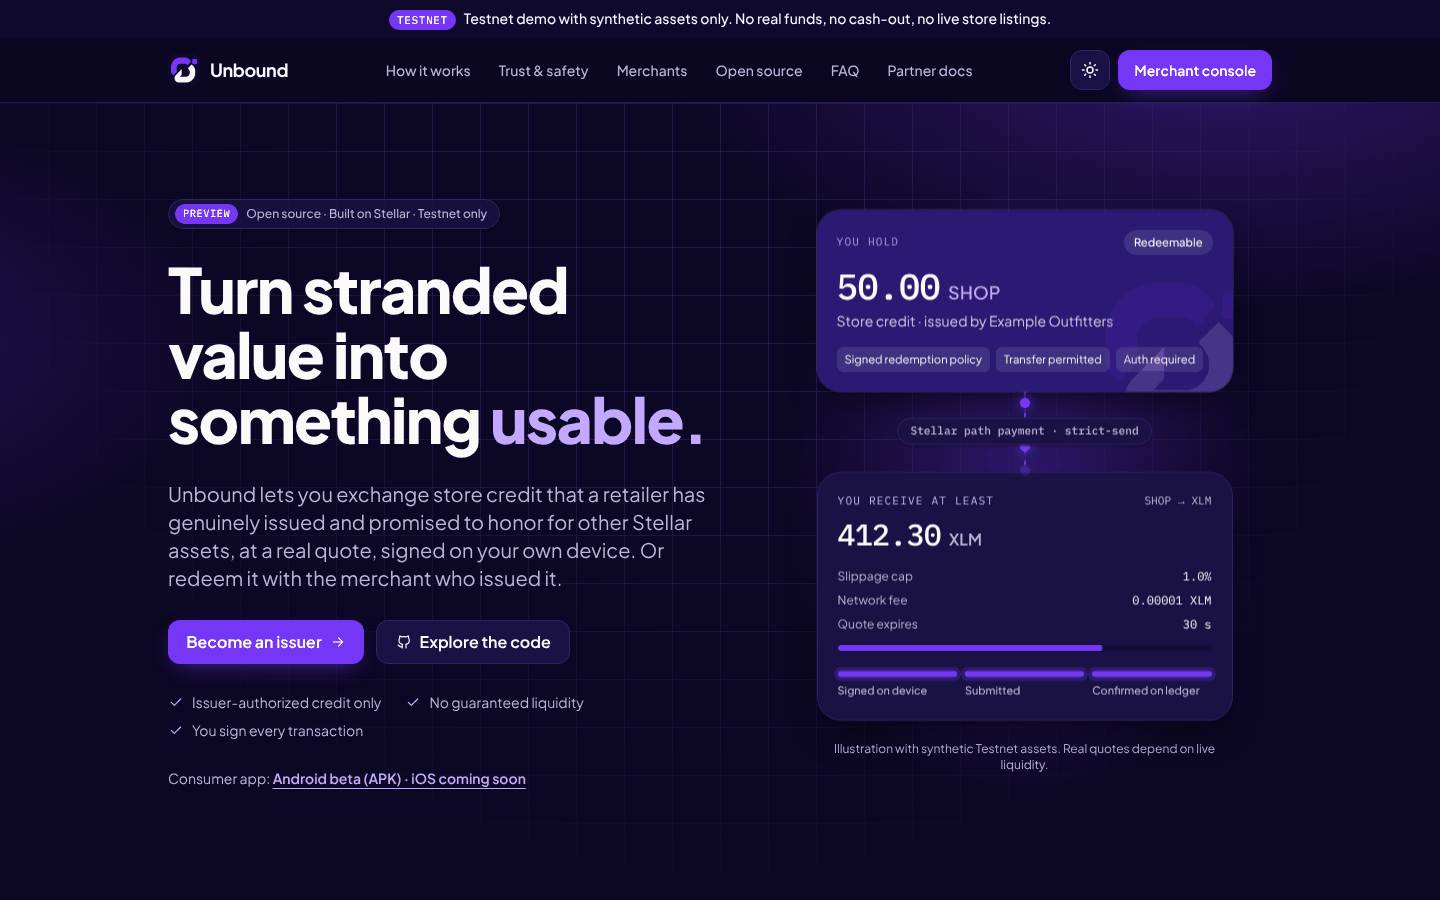
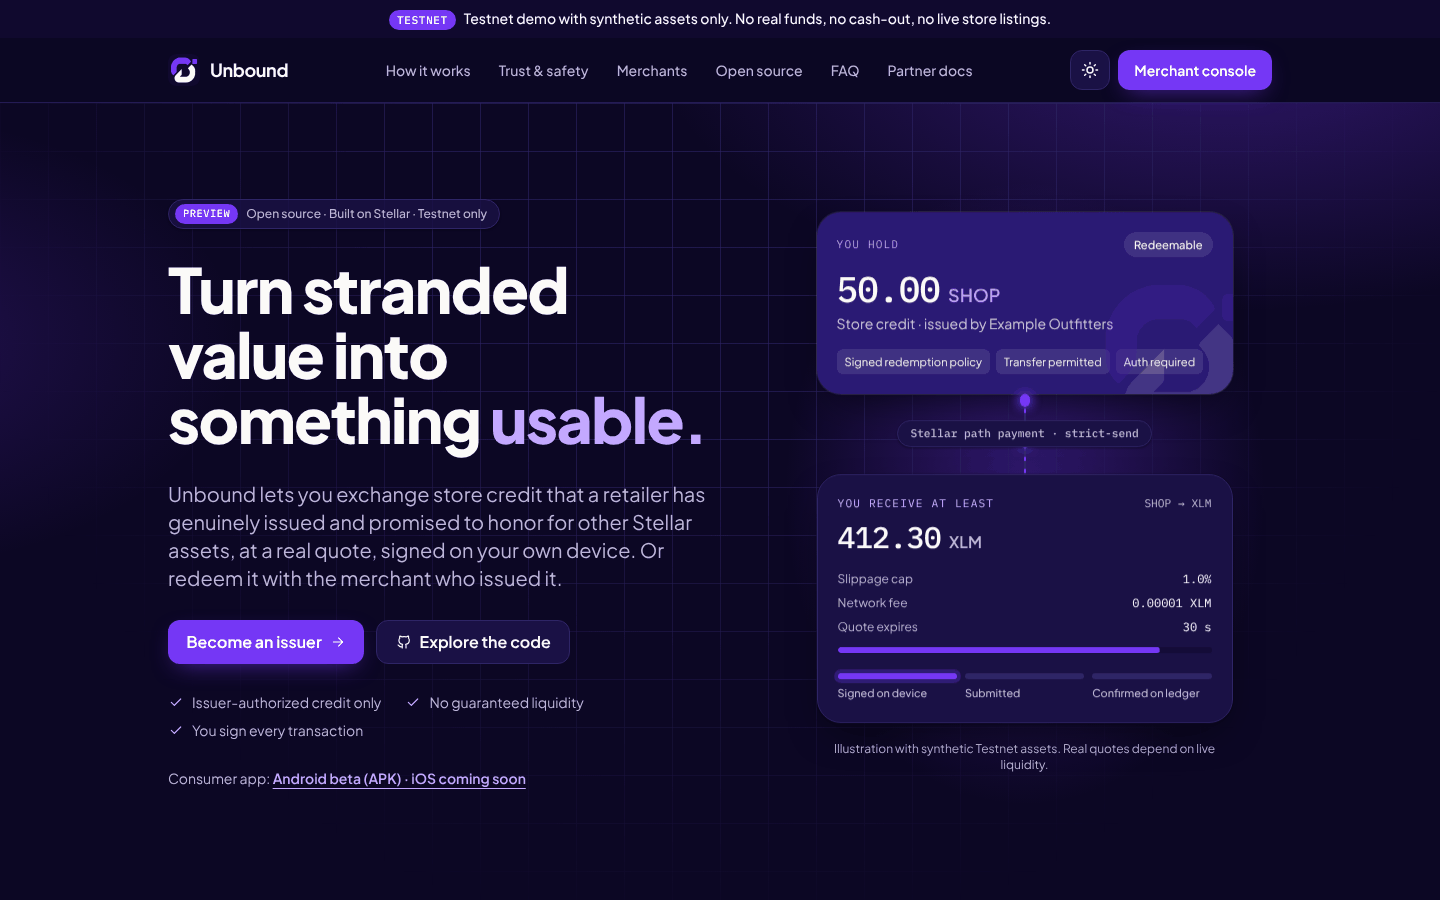
docs(site): new production screenshots and README for the consoles and landing
Retaken with Playwright on the production build (light/dark, 1440/390/360 px):
landing, the animated flow at step 5, quote explainer, audiences, under the hood,
the Android download at 360 px, and the merchant and reviewer consoles with
synthetic API data. Images are palette-optimised. README describes the three parts
and the refreshed status table; the flow lead copy no longer says four steps.

Claude-Session: https://claude.ai/code/session_01Dvzq6n93fi21PQ3YhwXWFa

diff --git a/src/components/landing/HowItWorks.tsx b/src/components/landing/HowItWorks.tsx
@@ -40,7 +40,7 @@ export function HowItWorks() {
           id="how-title"
           eyebrow="How it works"
           title="From a merchant's promise to value you can move"
-          lead="Four steps, each enforced in code and on the ledger. The issuer stays responsible for redemption the whole way through."
+          lead="Every step is enforced in code and on the ledger, and the issuer stays responsible for redemption the whole way through. Use the numbers to walk through it."
         />
         <FlowStory />
         <div className="relative mt-8">

diff --git a/README.md b/README.md
@@ -4,7 +4,7 @@
 
 # Unbound-site
 
-**The public face of Unbound: the landing page, partner docs and the merchant console where issuers confirm redemptions.**
+**The public face of Unbound: the landing page, partner docs, the merchant console where issuers answer redemptions, and the reviewer console.**
 
 [![CI](https://github.com/Unbound224/Unbound-site/actions/workflows/ci.yml/badge.svg?branch=main)](https://github.com/Unbound224/Unbound-site/actions/workflows/ci.yml)
 [![License: MIT](https://img.shields.io/badge/license-MIT-7537F5.svg)](./LICENSE)
@@ -35,24 +35,36 @@ own device, or redeem it with the issuer.
 
 ## This repository
 
-A Next.js app with two halves:
+A Next.js app with three parts:
 
-- **Landing** - value proposition, how it works (issuer -> credit -> exchange -> redemption), trust and safety,
-  consumer app, merchants, the four repositories with an honest status table, FAQ. Light and dark themes, responsive
-  down to 360 px, entrance animations that switch off under `prefers-reduced-motion`.
-- **Merchant console** - sign in against `Unbound-core`, see verified credit programs and the redemption queue, and
-  confirm fulfilment only once the returned credit is confirmed on the ledger. The session token lives in memory only.
+- **Landing** - value proposition; an animated, step-by-step diagram of issuer -> credit -> exchange -> redemption
+  escrow (with confirm / reject / timeout); an interactive quote explainer (slippage cap and minimum received, exact
+  base-unit maths, illustrative rate); who it is for (shoppers, merchants, developers); an animated "under the hood"
+  data path; trust and safety; the Android download (straight to the latest APK) with install help; FAQ. Light and
+  dark themes, responsive down to 360 px, animations off under `prefers-reduced-motion`.
+- **Merchant console** (`/merchant`) - sign in against `Unbound-core`, see verified credit programs, the redemption
+  queue (escrowed and direct returns, deadline, confirm or reject with a reason; escrow actions hand you the unsigned
+  transaction to sign with your issuer key and take the signed envelope back), and disputes with replies. Password
+  reset at `/merchant/forgot-password`.
+- **Reviewer console** (`/admin`) - issuer review queue (verify with an evidence reference, revoke with a reason),
+  disputes with the ruling form (escalated first), and the core maintenance jobs with run now.
 
-It never builds or signs Stellar transactions and never asks for a secret key.
+It never builds or signs Stellar transactions, never asks for a secret key, and keeps the session token in memory only.
 
 ### Screenshots
 
-Real captures of the production build (Playwright, Chromium). Full-page versions:
-[light](./docs/screenshots/desktop-full-light.png) · [dark](./docs/screenshots/desktop-full-dark.png).
+Real captures of the production build (Playwright, Chromium). Consoles show synthetic API data; nothing here is a
+real merchant or user. Full-page landing: [light](./docs/screenshots/desktop-full-light.png) · [dark](./docs/screenshots/desktop-full-dark.png).
 
-| Mobile (390 px), light | Mobile (390 px), dark | Merchant console (signed in to a locally seeded core) |
-|---|---|---|
-| <img src="./docs/screenshots/mobile-light.png" alt="Landing on mobile, light" width="220" /> | <img src="./docs/screenshots/mobile-dark.png" alt="Landing on mobile, dark" width="220" /> | <img src="./docs/screenshots/console-light.png" alt="Merchant console with synthetic redemption queue" width="420" /> |
+| How it works (animated, step 5) | Quote explainer |
+|---|---|
+| <img src="./docs/screenshots/flow-light.png" alt="Animated diagram: credit in the redemption escrow, confirm or refund" width="420" /> | <img src="./docs/screenshots/quote-explainer-dark.png" alt="Interactive slippage and minimum received explainer" width="420" /> |
+| **Who it is for** | **Under the hood** |
+| <img src="./docs/screenshots/audiences-light.png" alt="Shoppers, merchants and developers cards" width="420" /> | <img src="./docs/screenshots/under-the-hood-dark.png" alt="Phone to core to stellar gateway to Testnet data path" width="420" /> |
+
+| Mobile (390 px), light | Android download at 360 px | Merchant console (escrow queue) | Reviewer console |
+|---|---|---|---|
+| <img src="./docs/screenshots/mobile-light.png" alt="Landing on mobile, light" width="180" /> | <img src="./docs/screenshots/android-download-360-dark.png" alt="Download for Android with install help" width="180" /> | <img src="./docs/screenshots/console-light.png" alt="Merchant console with synthetic escrowed redemptions" width="260" /> | <img src="./docs/screenshots/admin-light.png" alt="Reviewer console with synthetic review queue" width="260" /> |
 
 ## Architecture
 
@@ -64,9 +76,9 @@ flowchart LR
   S["Unbound-site<br/>landing + merchant console"]
   C["Unbound-core<br/>HTTP API v1, policy, intents, audit"]
   G["Unbound-stellar<br/>SDK, gateway service, chain worker"]
-  N[("Stellar Testnet<br/>assets, trustlines, DEX")]
+  N[("Stellar Testnet<br/>assets, trustlines, DEX,<br/>Soroban redemption escrow")]
   M -- "quotes, intents, signed XDR" --> C
-  S -- "merchant auth, redemption queue" --> C
+  S -- "merchant + reviewer consoles" --> C
   C -- "quote / build / submit" --> G
   G -- "Horizon" --> N
   G -- "reconciliation events" --> C
@@ -108,12 +120,15 @@ Legend: **Built** = implemented and covered by automated tests in this repo. **N
 | Area | Status |
 |---|---|
 | Landing page: all sections, light/dark, responsive to 360 px, reduced motion, config-driven store badges | Built |
-| Sign-in / registration against core; token in memory only; sign-out revokes server-side | Built |
-| Merchant application form; console with programs and redemption queue; confirm only after ledger-confirmed return | Built |
+| Animated flow diagram (incl. Soroban escrow), interactive quote explainer, audiences, under-the-hood data path | Built; interaction, maths and axe tested |
+| Android download: button goes to `releases/latest/download/unbound-android.apk`, All releases, checksum, install help | Built (the link works once a `v*` tag has been released) |
+| Sign-in / registration against core; token in memory only; sign-out revokes server-side; password reset pages | Built |
+| Merchant console: programs, redemption queue with escrow state and deadline, confirm / reject with reason, escrow sign-and-submit panel, dispute replies | Built |
+| Reviewer console: issuer review queue (verify / revoke), dispute rulings, maintenance jobs | Built |
 | Typed API client (zod-validated, timeouts); every endpoint checked against core's OpenAPI fixture | Built |
 | Live-core test: spawns the real `Unbound-core` (SQLite, fake gateway, synthetic seed) and drives the components | Built (skipped without the sibling checkout) |
 | Accessibility: axe-core checks in jsdom on every page and state | Built; colour contrast and manual screen-reader audit not done |
-| Policy-signing helper, issuing credit from the UI, admin console, disputes UI, password reset, MFA | Not yet |
+| Policy-signing helper, issuing credit from the UI, signing escrow actions with a browser wallet (Freighter), MFA | Not yet |
 | Browser E2E in CI, Lighthouse, public deployment | Not yet |
 | Official store badges | Not shown: there are no store listings |
 
